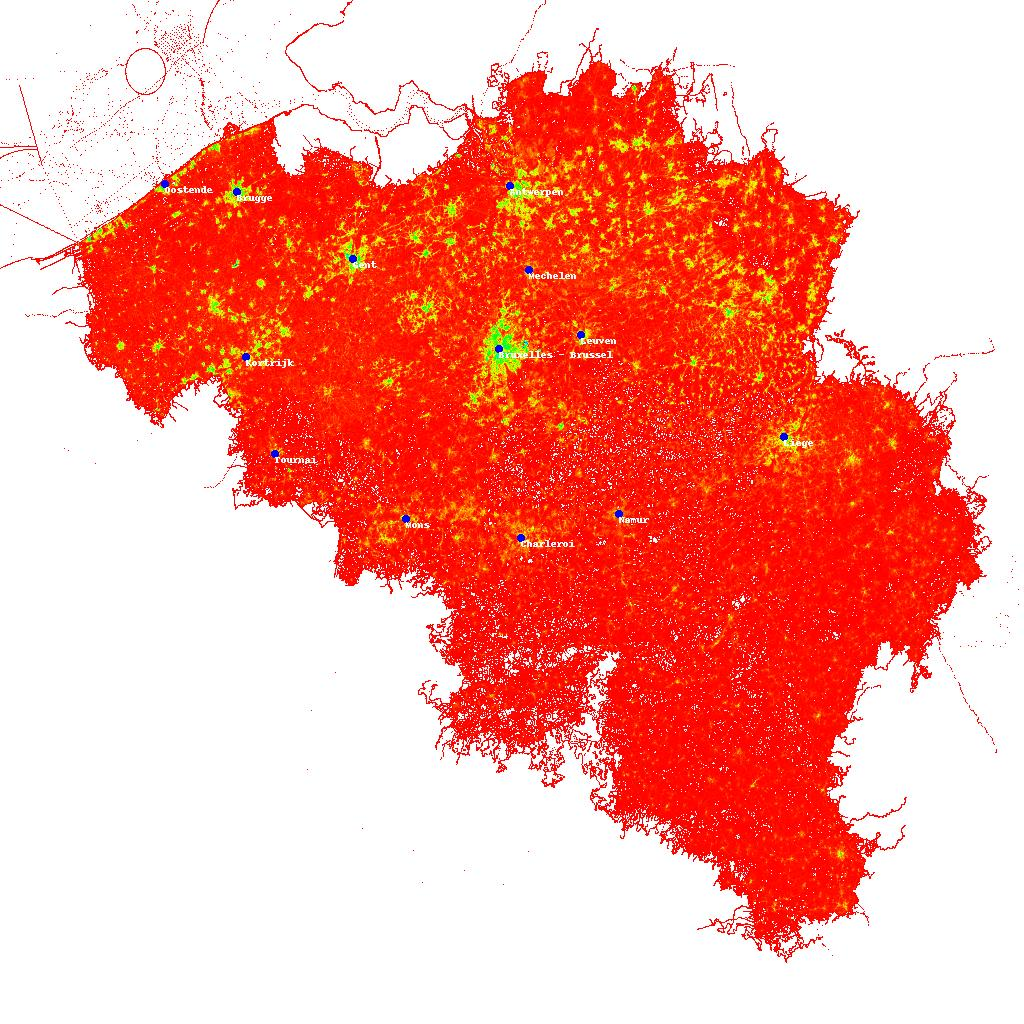
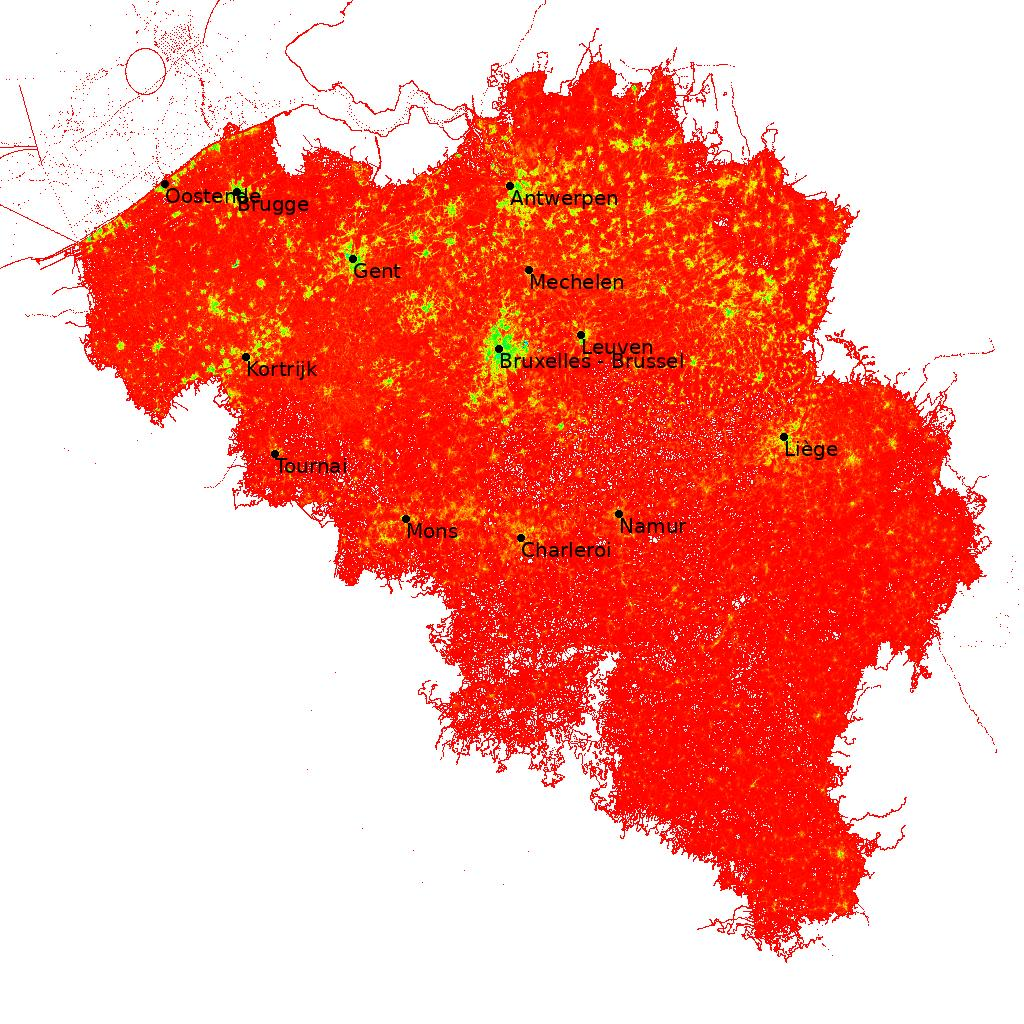
Make the text more visible

diff --git a/render.py b/render.py
@@ -8,7 +8,7 @@
 import ctypes
 import sys
 import os
-from PIL import Image, ImageDraw
+from PIL import Image, ImageDraw, ImageFont
 import numpy
 import colorsys
 
@@ -62,6 +62,7 @@ def build_image(file_name):
     """
         Builds an image out of the PBF file
     """
+
     lib = ctypes.cdll.LoadLibrary(os.path.abspath("OSM2Picture.so"))
 
     class NodeRaster(ctypes.Structure):
@@ -91,13 +92,14 @@ def build_image(file_name):
             result_image.putpixel((w, h),
                                   (int(255 * r), int(255 * g), int(255 * b)))
     draw = ImageDraw.Draw(result_image)
-
+    font = ImageFont.truetype("DejaVuSans.ttf", size=20)
     for name, (lat, lon) in collect_cities(file_name).items():
       y = 1024 * (lat - toFill.min_lat) / (toFill.max_lat - toFill.min_lat)
       x = 1024 * (lon - toFill.min_lon) / (toFill.max_lon - toFill.min_lon)
       image_x, image_y= (int(x), 1024 - int(y))
-      draw.ellipse((image_x -4, image_y-4, image_x +3, image_y +3), fill =(0, 0, 255))
-      draw.text((image_x, image_y), name, fill=(255,255,255))
+      text_color = (0, 0, 0)
+      draw.ellipse((image_x -4, image_y-4, image_x +3, image_y +3), fill=text_color)
+      draw.text((image_x, image_y), name, fill=text_color, font = font)
       
     
 
